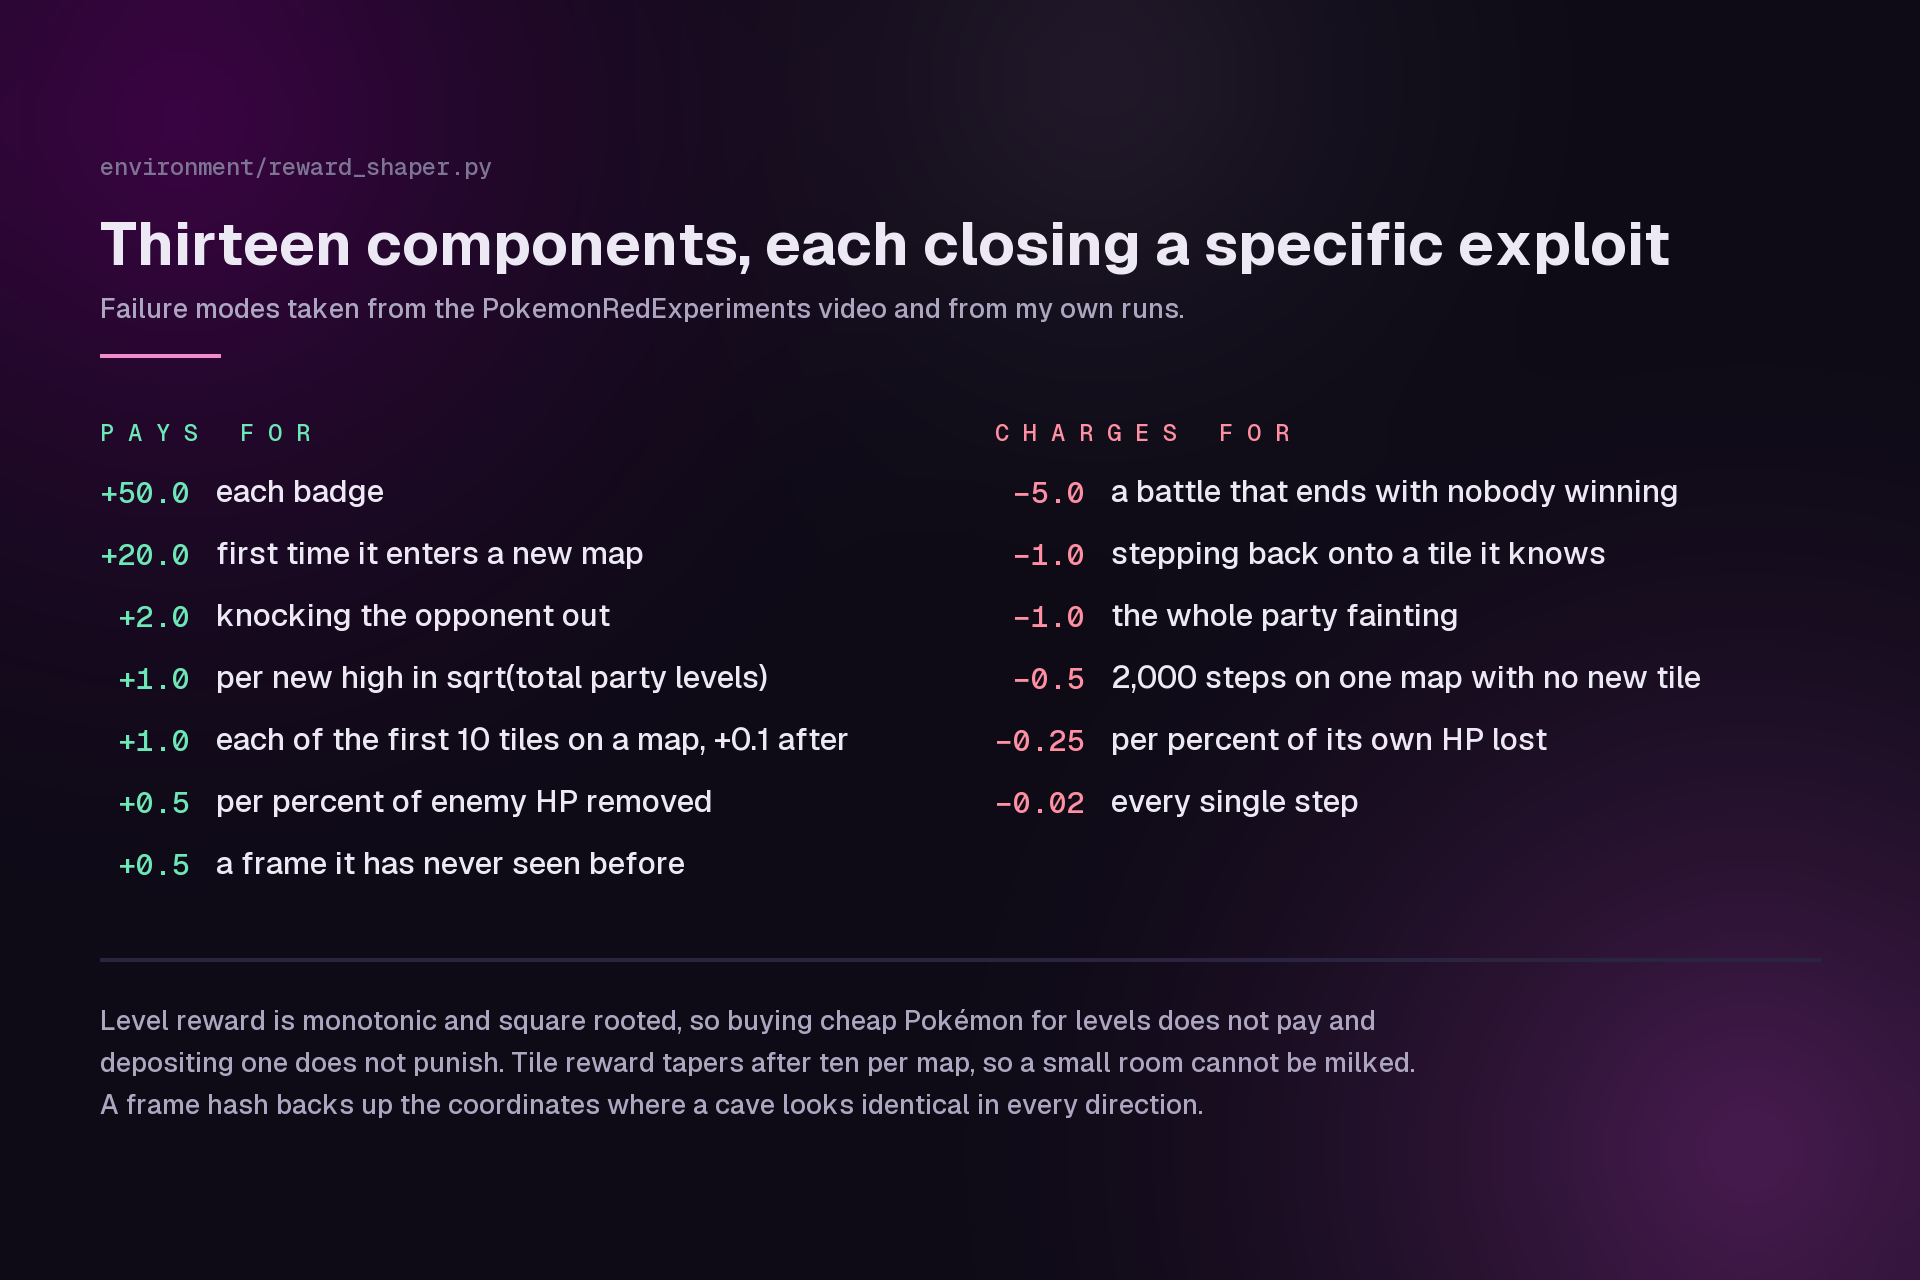
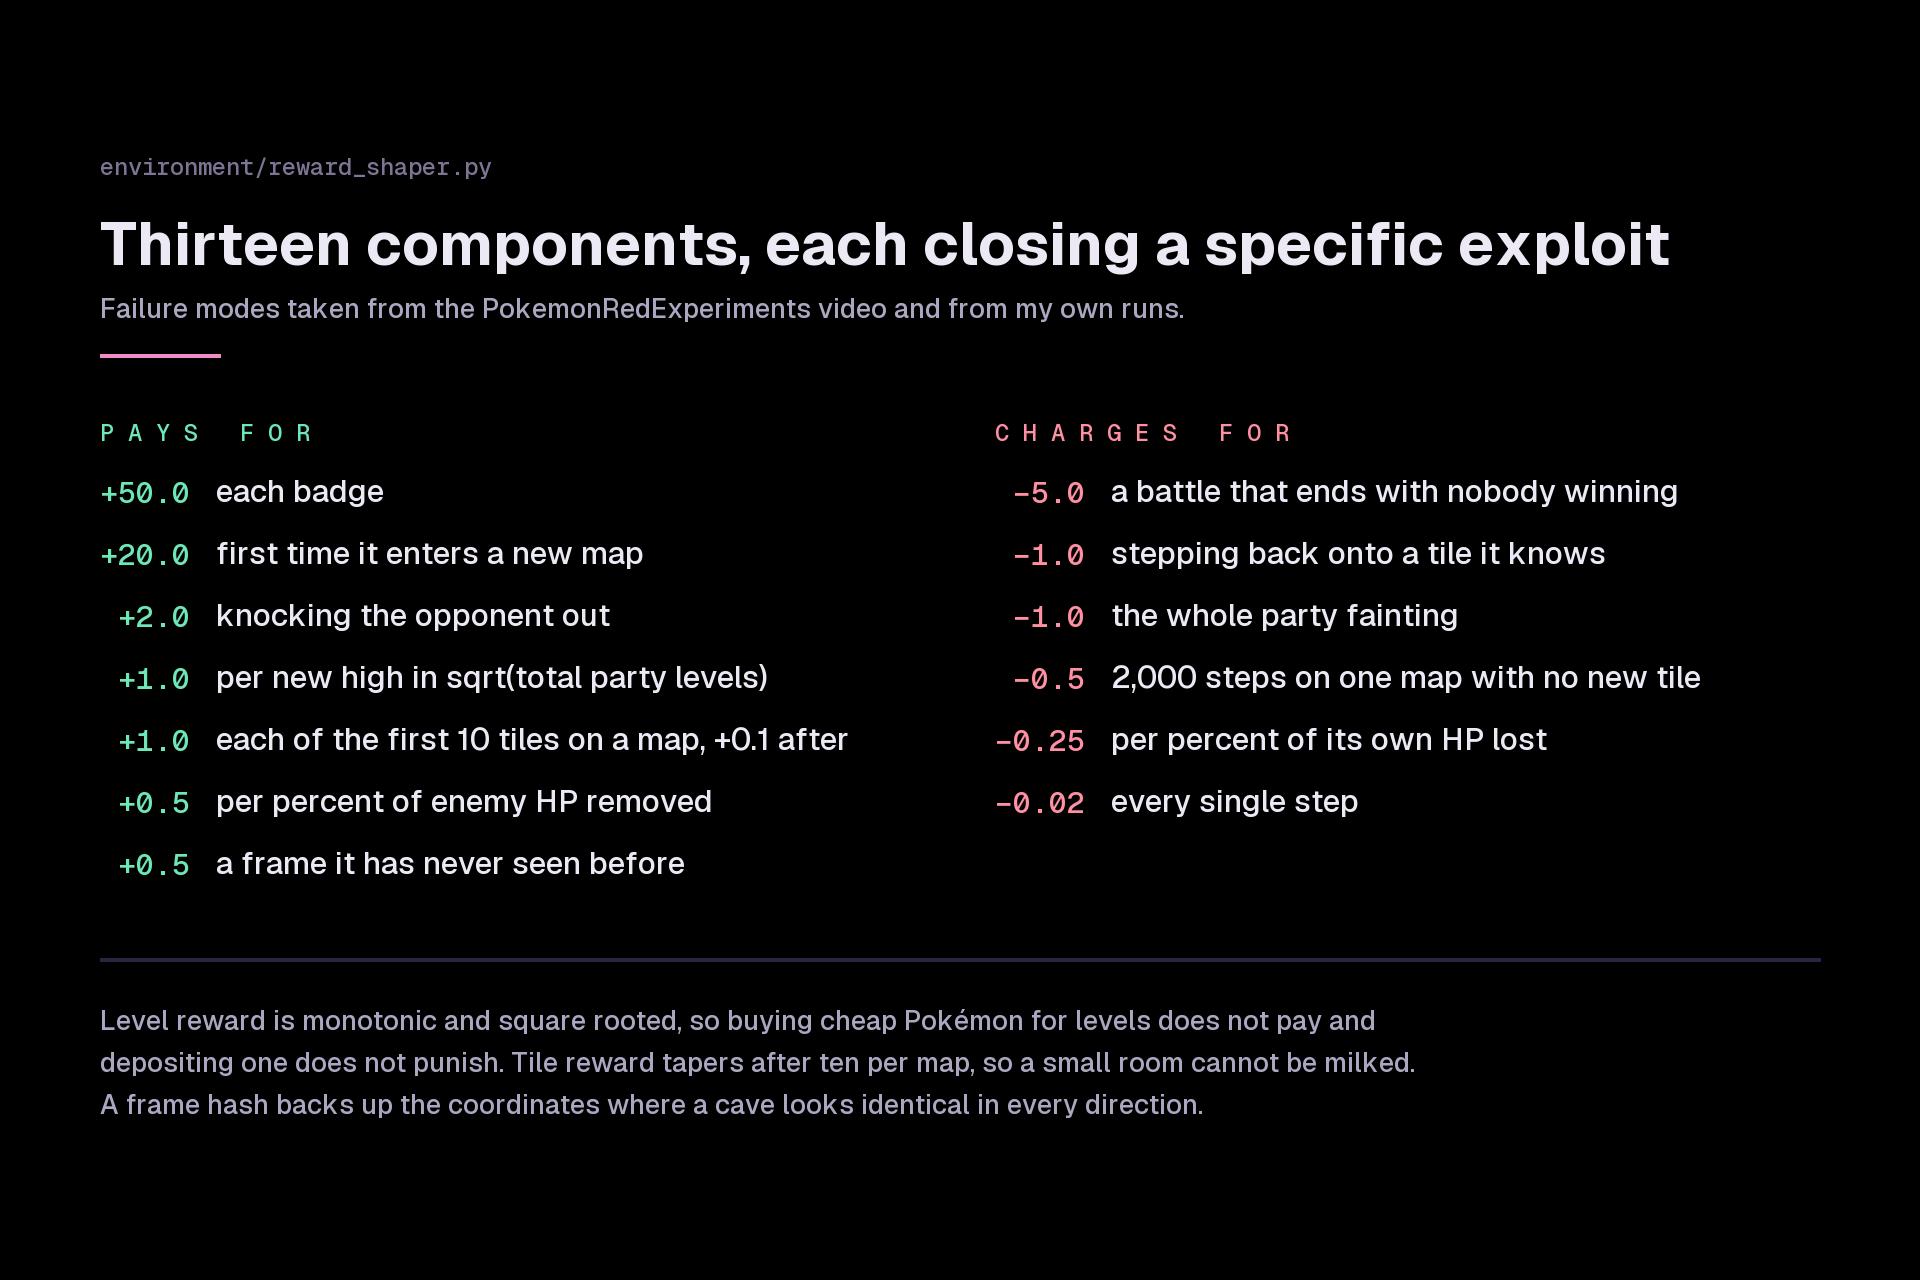
Put the FireRed cover in and set the diagram on black
Cover is Danish's, 1620x1080 and already 3:2, so it fills the frame with no
backdrop. The reward diagram loses its gradient for flat black, as asked,
which also drops it from 322kB to 130kB because flat colour compresses better
than a gradient. Every colour on it gains contrast against black rather than
losing it, so nothing needed re-measuring.

Open Graph images are now resized rather than linked at full size. The comment
in [slug].astro claimed `cover.src.src` was "the optimised file, not the
source", and that was wrong: it is the emitted original. The FireRed cover made
that visible by shipping a 2.5MB PNG as the page's link preview, which is a
size some scrapers give up on. Covers now go through getImage at 1200px wide,
the width Open Graph asks for, as JPEG rather than WebP because scraper support
for WebP is still uneven in a way browsers' is not.

  brickpicknplace   61K      firered   2.5MB -> 198K
  mems step tracker 62K      pitwall   16K

diff --git a/ASSETS.md b/ASSETS.md
@@ -98,11 +98,11 @@ Done. Stills sit in `src/content/projects/pitwall-rl/` beside `index.md`; the cl
 
 ### FireRed RL Agent
 
-Gallery done, cover outstanding. Files go in `src/content/projects/firered-rl-agent/`, beside `index.md`.
+Done. Files go in `src/content/projects/firered-rl-agent/`, beside `index.md`.
 
 | Asset | Status | Priority | Notes |
 | --- | --- | --- | --- |
-| Cover | you | launch | Danish is making one. The card shows a labelled empty slot until it lands. |
+| Cover | done | launch | `cover.png`, 1620x1080. Uses the official FireRed logo and the game's tile art, which is Nintendo's. Danish's call, recorded here so it is not a surprise later. |
 | Diagram: the reward function | done | strong | `reward_design.png`. All thirteen terms with their real weights, read straight out of `reward_shaper.py`, and the exploit each one closes. Built rather than captured, because the training logs are gone. |
 | TensorBoard reward breakdown | gone | nice | The original pick for this project, but `runs/` is gitignored and no longer on this machine. Only a fresh training run brings it back, which needs the ROM and the setup again. |
 | Observation stack, 84x84 greyscale stacked 3 | regenerate | nice | Needs the ROM and the env. Shows what the network actually receives rather than what the game looks like. |

diff --git a/src/content/projects/firered-rl-agent/index.md b/src/content/projects/firered-rl-agent/index.md
@@ -16,7 +16,9 @@ tools:
 links:
   - label: Source Code
     url: https://github.com/danish-silva/FireRedRLAgent
-# TODO: cover. Danish is making one. Until then the card shows an empty slot.
+cover:
+  src: ./cover.png
+  alt: The Pokémon FireRed Version logo over the game's overworld map art, captioned Reinforcement Learning Agent
 gallery:
   - src: ./reward_design.png
     alt: Two columns listing the thirteen reward terms and their weights, what the agent is paid for and what it is charged for, with notes underneath on the exploit each one closes
